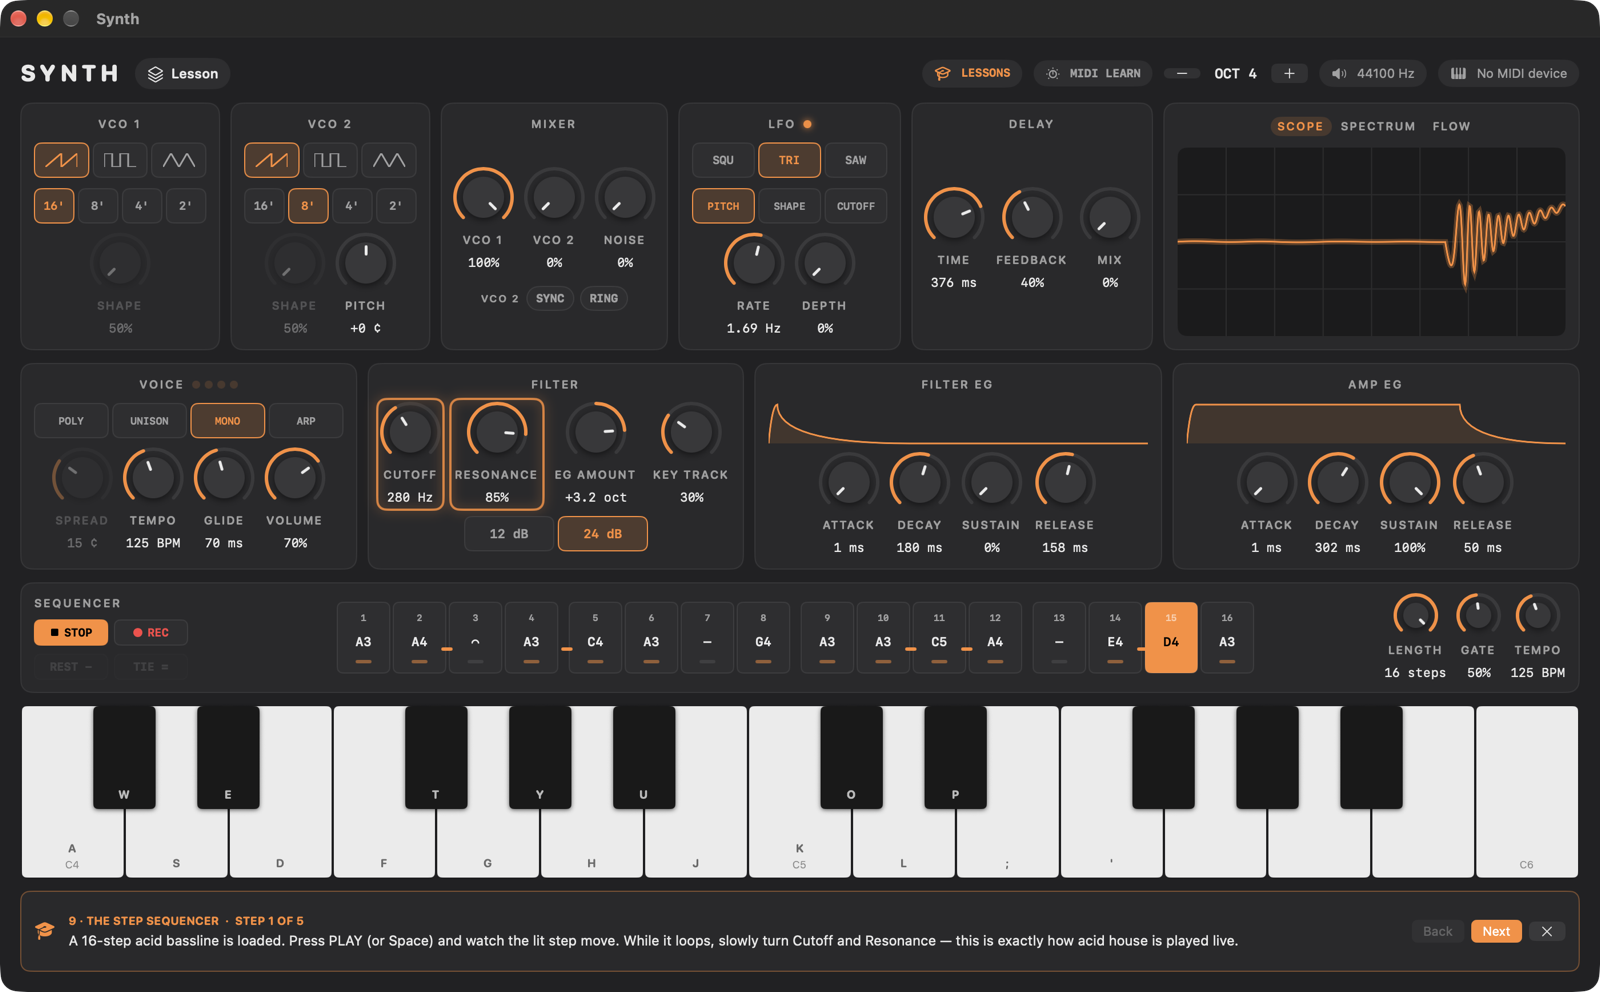
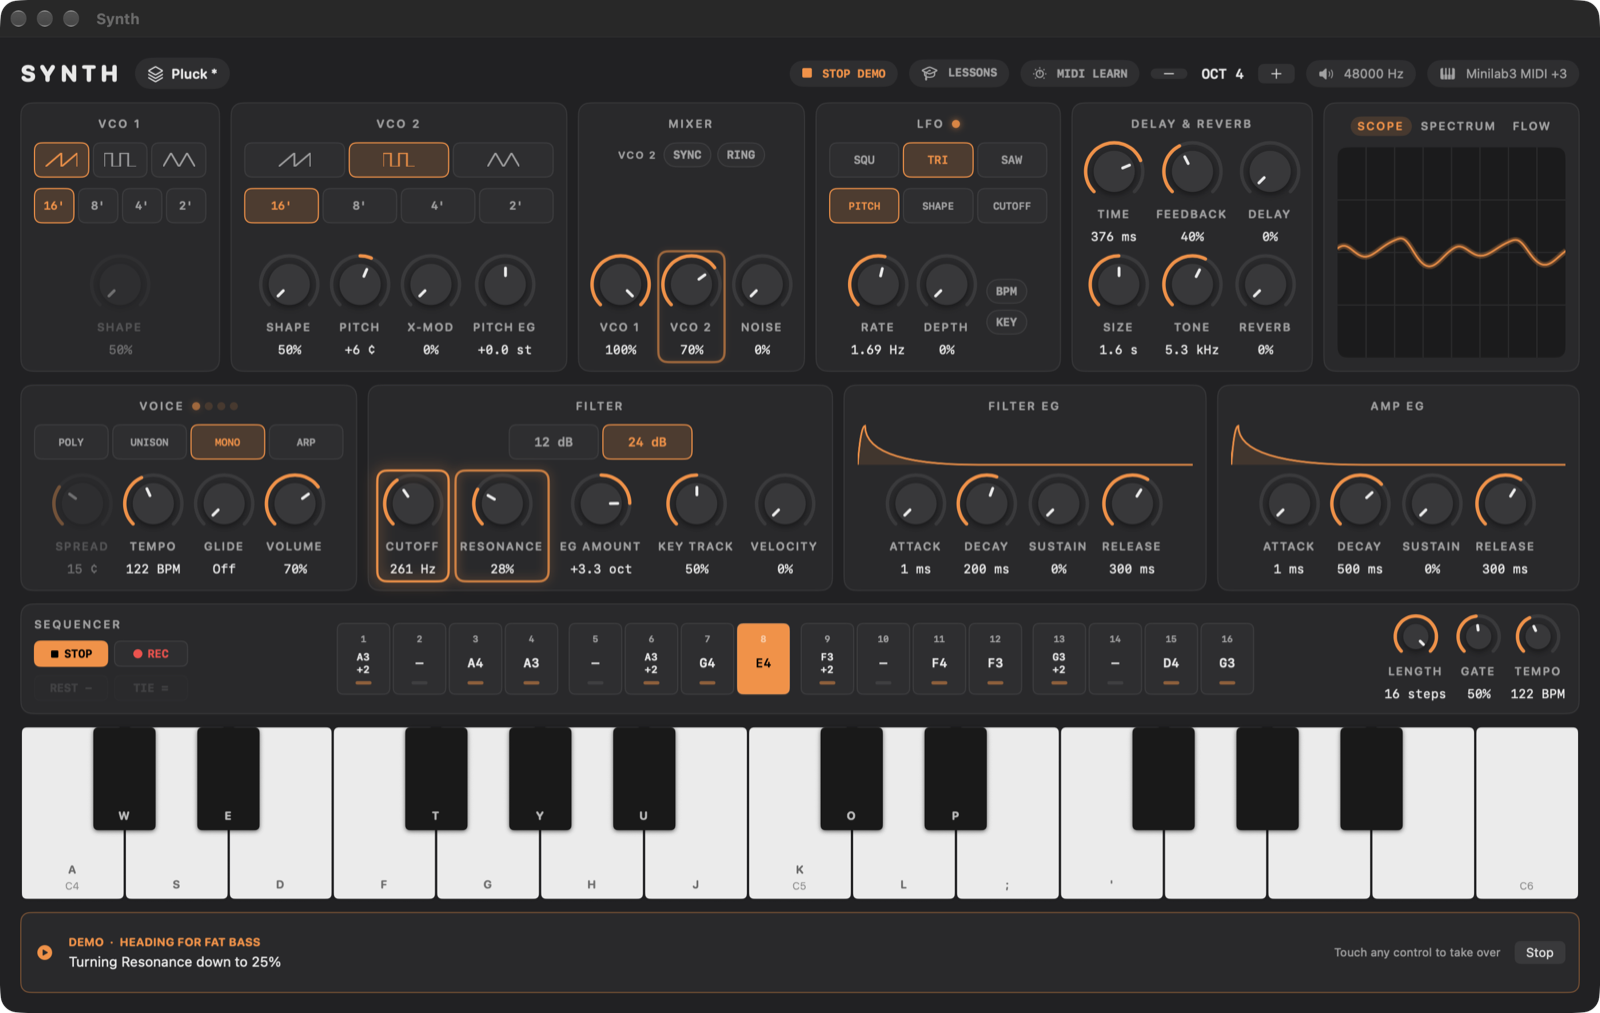
New screenshot and feature list for 1.3.0

diff --git a/README.md b/README.md
@@ -20,13 +20,19 @@ needed.
 ## What's inside
 
 - **Sound sources:** two oscillators (saw, square with pulse width, triangle)
-  with sync and ring mod, plus noise.
-- **Filter:** a resonant 12 or 24 dB filter with its own envelope.
+  with sync, ring mod, cross mod (FM) and a pitch envelope, plus noise.
+- **Filter:** a resonant 12 or 24 dB filter with its own envelope and velocity
+  sensitivity. Both saturate when pushed, like analog circuits.
+- **Analog character:** each voice is slightly out of tune with the others and
+  each oscillator drifts gently, like a real analog synth.
 - **Amp:** an amp envelope.
-- **Modulation:** an LFO for vibrato, wah or PWM.
+- **Modulation:** an LFO for vibrato, wah or PWM that can lock to the tempo.
 - **Voices:** 4-voice poly, unison, mono with glide, and an arpeggiator.
-- **Effects:** a stereo, tape-like delay.
+- **Effects:** a stereo delay modelled on analog bucket-brigade units, and a
+  stereo reverb.
 - **Step sequencer:** 16 steps with chords, ties and slides.
+- **Demo:** press DEMO and the synth plays itself, turning one control at a
+  time and explaining what you're hearing.
 - **Presets:** factory presets, and you can save your own.
 
 ## Playing
